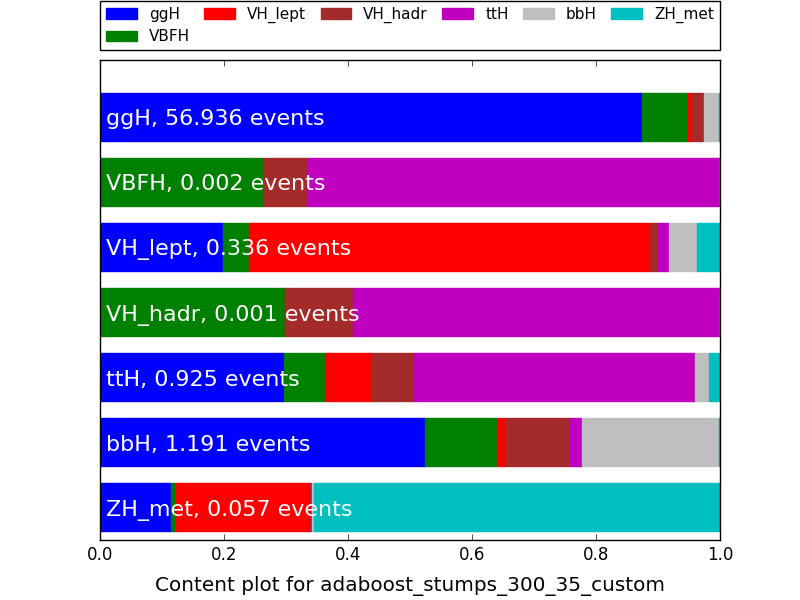
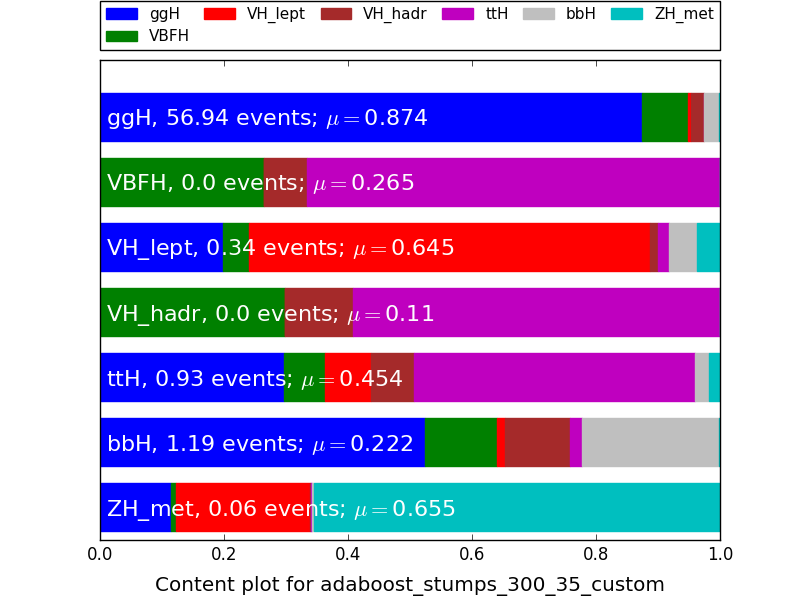
Signal strength

diff --git a/src/plotter.py b/src/plotter.py
@@ -46,7 +46,7 @@ def content_plot(model_name, permutation=None, save=True, verbose=cst.global_ver
 
     contents_table *= cst.luminosity
     correct = [contents_table[cat, cat] for cat in range(nb_categories)]
-    incorrect = np.sum(contents_table[np.logical_not(np.identity(nb_categories, dtype=bool))], axis=1)
+    incorrect = np.sum(np.where(np.logical_not(np.identity(nb_categories, dtype=bool)), contents_table, 0.), axis=1)
 
     bkg_predictions = np.loadtxt(directory + 'bkg_predictions.prd')
     bkg_weights = np.loadtxt('saves_alt/common' + suffix + 'ZZTo4l_weights.wgt')
@@ -54,7 +54,7 @@ def content_plot(model_name, permutation=None, save=True, verbose=cst.global_ver
     bkg = np.array([np.sum(bkg_weights[np.where(bkg_predictions == cat)]) for cat in range(nb_categories)])
 
     strengths = [1. / (1. + (bkg[cat] + incorrect[cat]) / correct[cat]) for cat in range(nb_categories)]
-    np.savetxt(directory + 'strengths.txt')
+    np.savetxt(directory + 'strengths.txt', strengths)
 
     ordering = [nb_categories - 1 - i for i in range(nb_categories)]
     if permutation:

diff --git a/main.py b/main.py
@@ -33,7 +33,7 @@ if cst.ignore_warnings:
 
 
 if __name__ == "__main__":
-    pr.get_background_files(tuple(range(7)))
+    #pr.get_background_files(tuple(range(7)))
     #pr.full_process((0, 2, 3, 4, 5, 6, 1))
 
     # if not (tests.common_saves_found() and tests.lengths_consistent()):
@@ -52,7 +52,8 @@ if __name__ == "__main__":
                 logging.info('Training model ' + model_name)
                 ctg.model_training(model_name)
             try:
-                open('saves_alt/' + model_name + suffix + '/predictions.txt', 'rb')
+                open('saves_alt/' + model_name + suffix + '/predictions.prd', 'rb')
+                open('saves_alt/' + model_name + suffix + '/bkg_predictions.prd', 'rb')
             except IOError:
                 logging.info('Generating predictions for ' + model_name + suffix)
                 ctg.generate_predictions(model_name)
